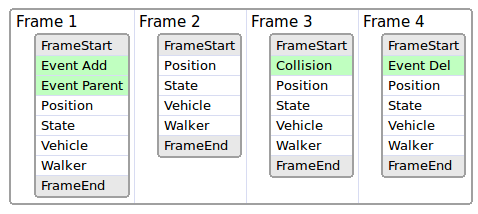
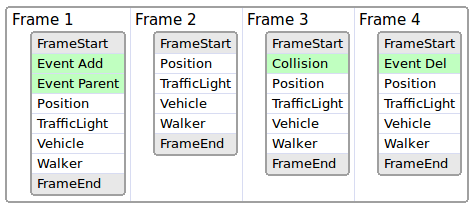
Updated

diff --git a/Docs/recorder_binary_file_format.md b/Docs/recorder_binary_file_format.md
@@ -49,6 +49,7 @@ The types of packets are:
 
 I suggest to use **id** over 100 for user custom packets, because this list will grow in the future in sequence.
 
+
 #### 3.1 Packet 0: Frame Start
 
 This packet marks the start of a new frame, so it will need to be the first one to start each frame. All packets need to be placed between a **Frame Start** and a **Frame End**.
@@ -145,9 +146,21 @@ This packet records the animation for the walker. It just saves the **speed** of
 
 ![state](img/RecorderWalker.png)
 
-### 4. File Layout
+### 4. Frame Layout
 
-The layout of the file starts with the **info header** and then follows a collection of packets in groups. The first in each group is the **Frame Start** packet, and the last in the group is the **Frame End** packet. In the middle can go all other packets, some of them are optional.
+A frame consist on several packets, all of them optional, unless the packets that **start** and **end** the frame, that must be there always.
+
+![layout](img/RecorderFrameLayout.png)
+
+**Event** packets exist only in the frame where happens.
+
+**Position** and **traffic light** packets should exist in all frames, because they are required to move all actors and set the traffic lights to its state. They are optional but if they are not present then the replayer will not be able to move or set the state of traffic lights.
+
+The **animation** packets are also optional, but by default they are recorded. That way the walkers are animated and also the wheels follow the direction of the vehicles.
+
+### 5. File Layout
+
+The layout of the file starts with the **info header** and then follows a collection of packets in groups. The first in each group is the **Frame Start** packet, and the last in the group is the **Frame End** packet. In the middle can go all other packets.
 
 ![layout](img/RecorderLayout.png)
 

diff --git a/Docs/recorder_and_playback.md b/Docs/recorder_and_playback.md
@@ -50,6 +50,8 @@ client.set_replayer_time_factor(2.0)
 A value greater than 1.0 will play in fast motion, and a value below 1.0 will play in slow motion, being 1.0 the default value for normal playback.
 As a performance trick, with values over 2.0 the interpolation of positions is disabled.
 
+Also the animations can remain at normal speed, because they don't replicate the state of the animation at that exact frame. So animations are not accurate right now.
+
 The call of this API will not stop the replayer in course, it will change just the speed, so you can change that several times while the replayer is running.
 
 #### Info about the recorded file
